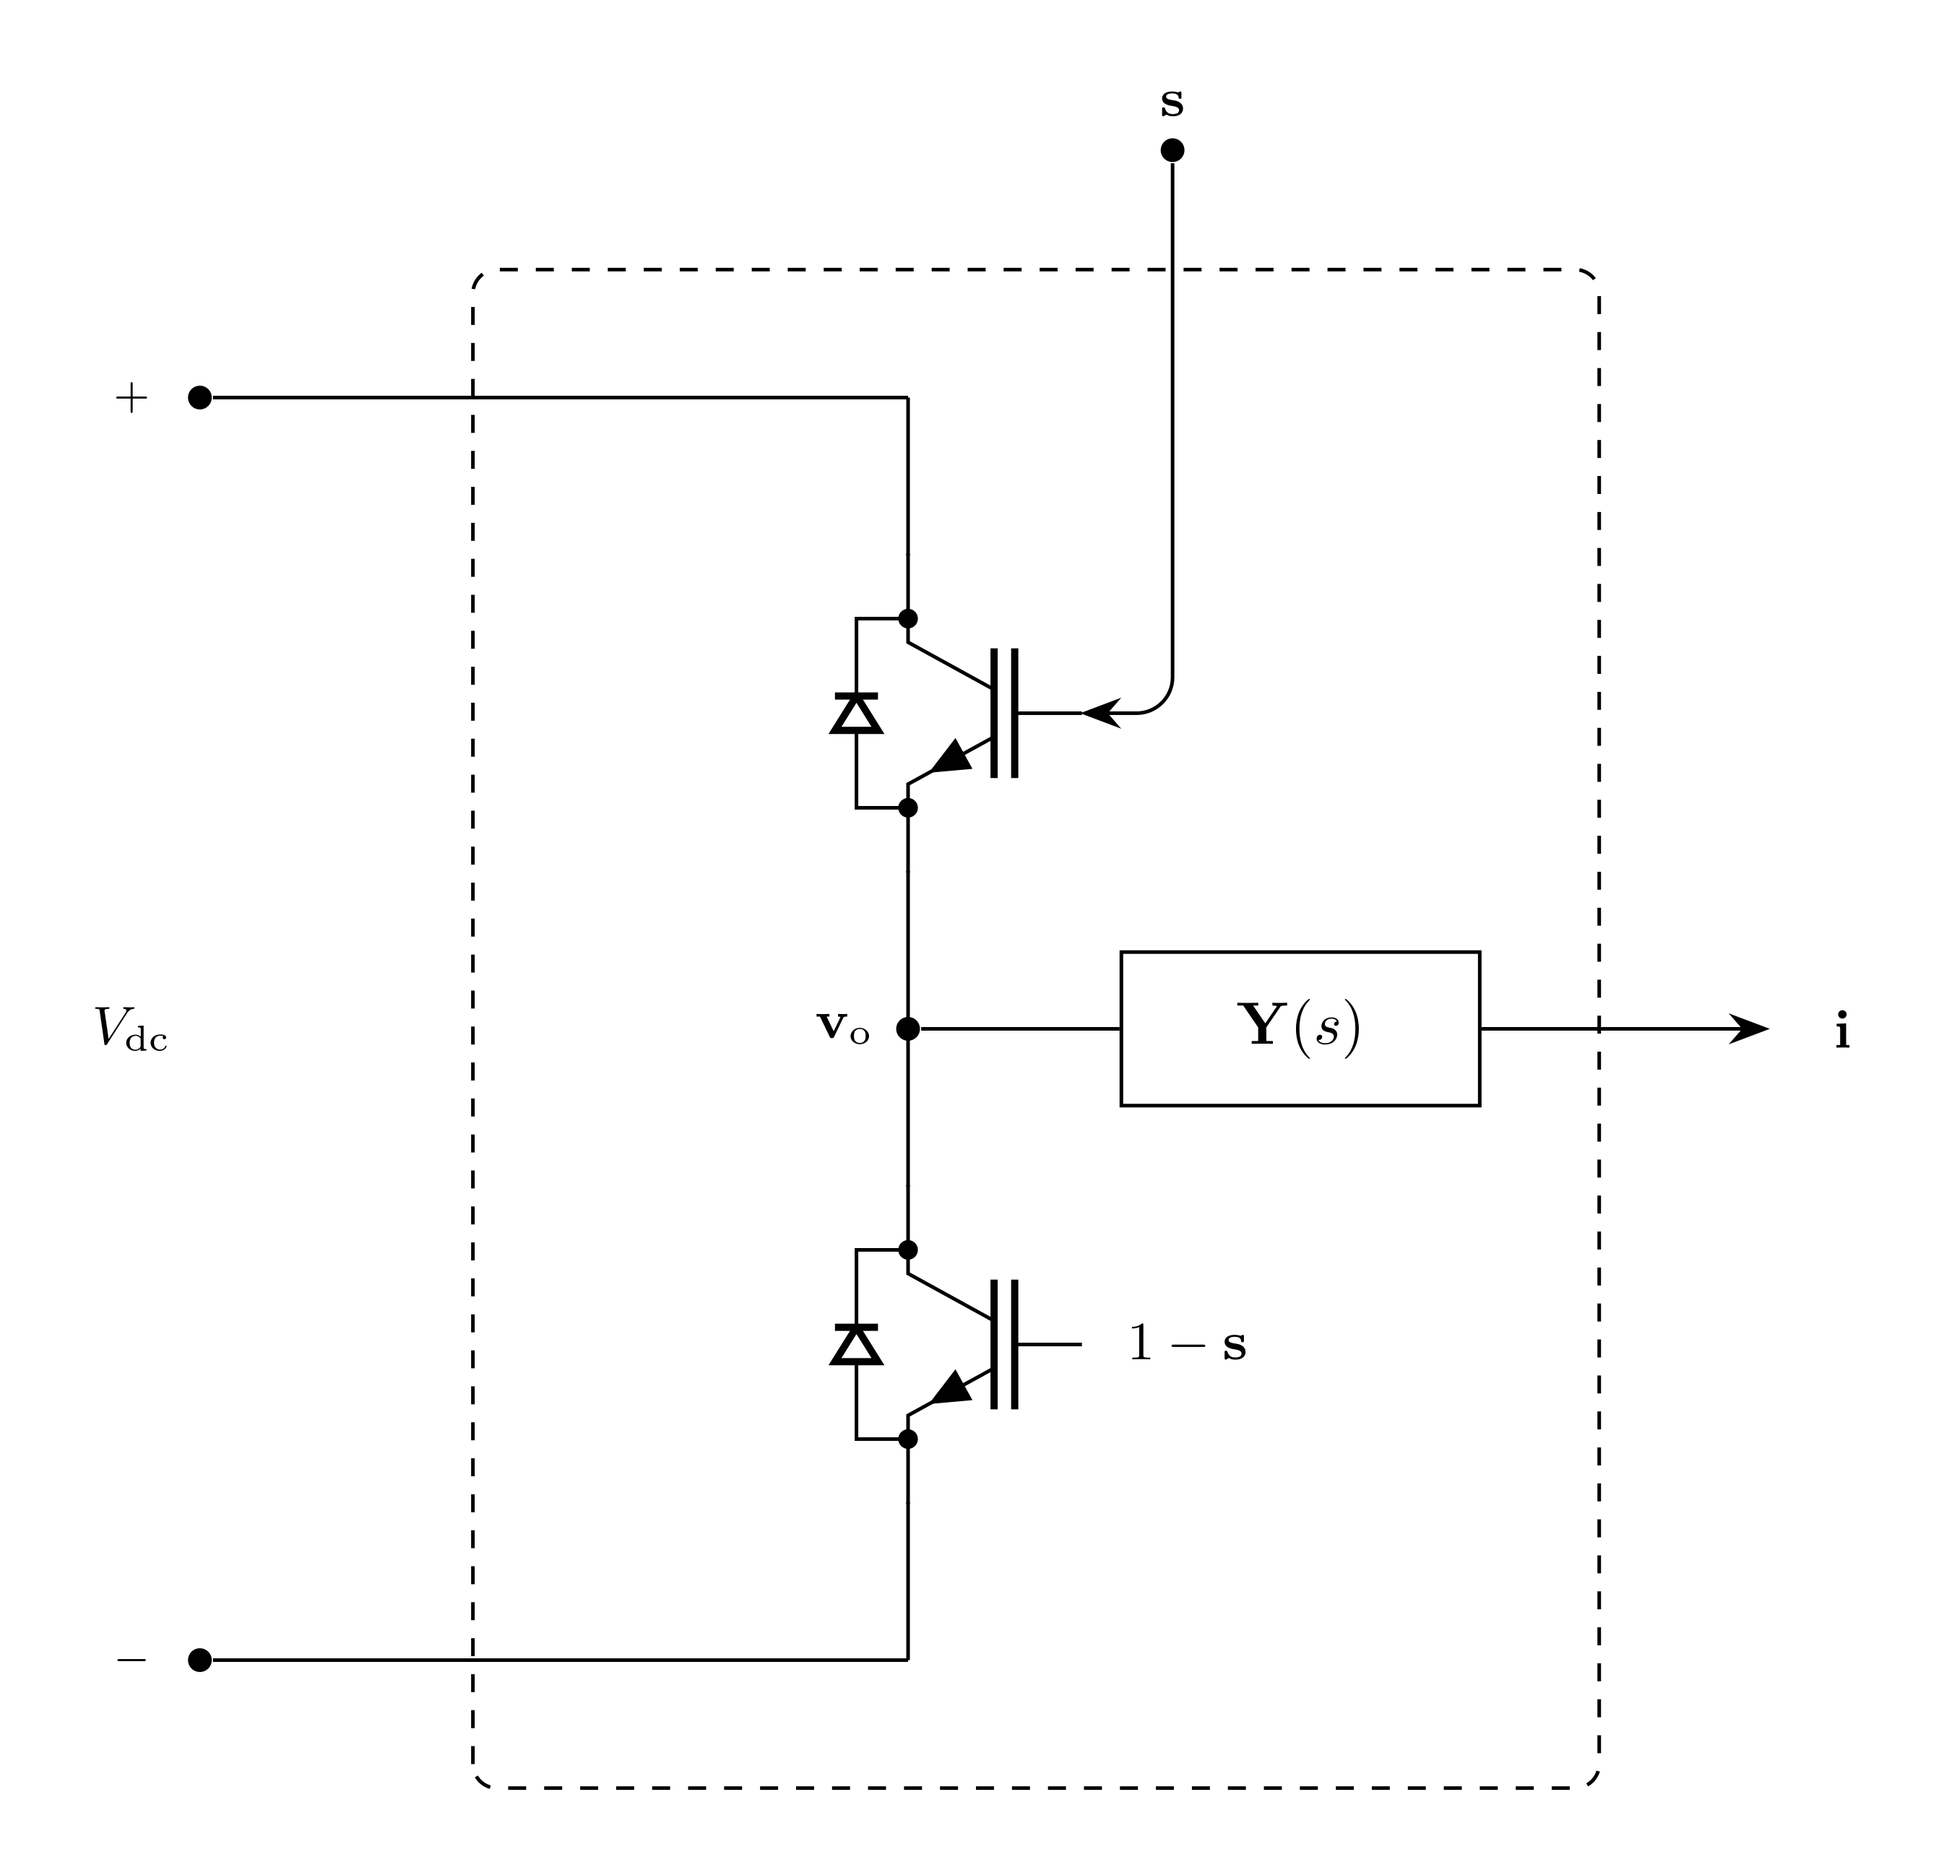
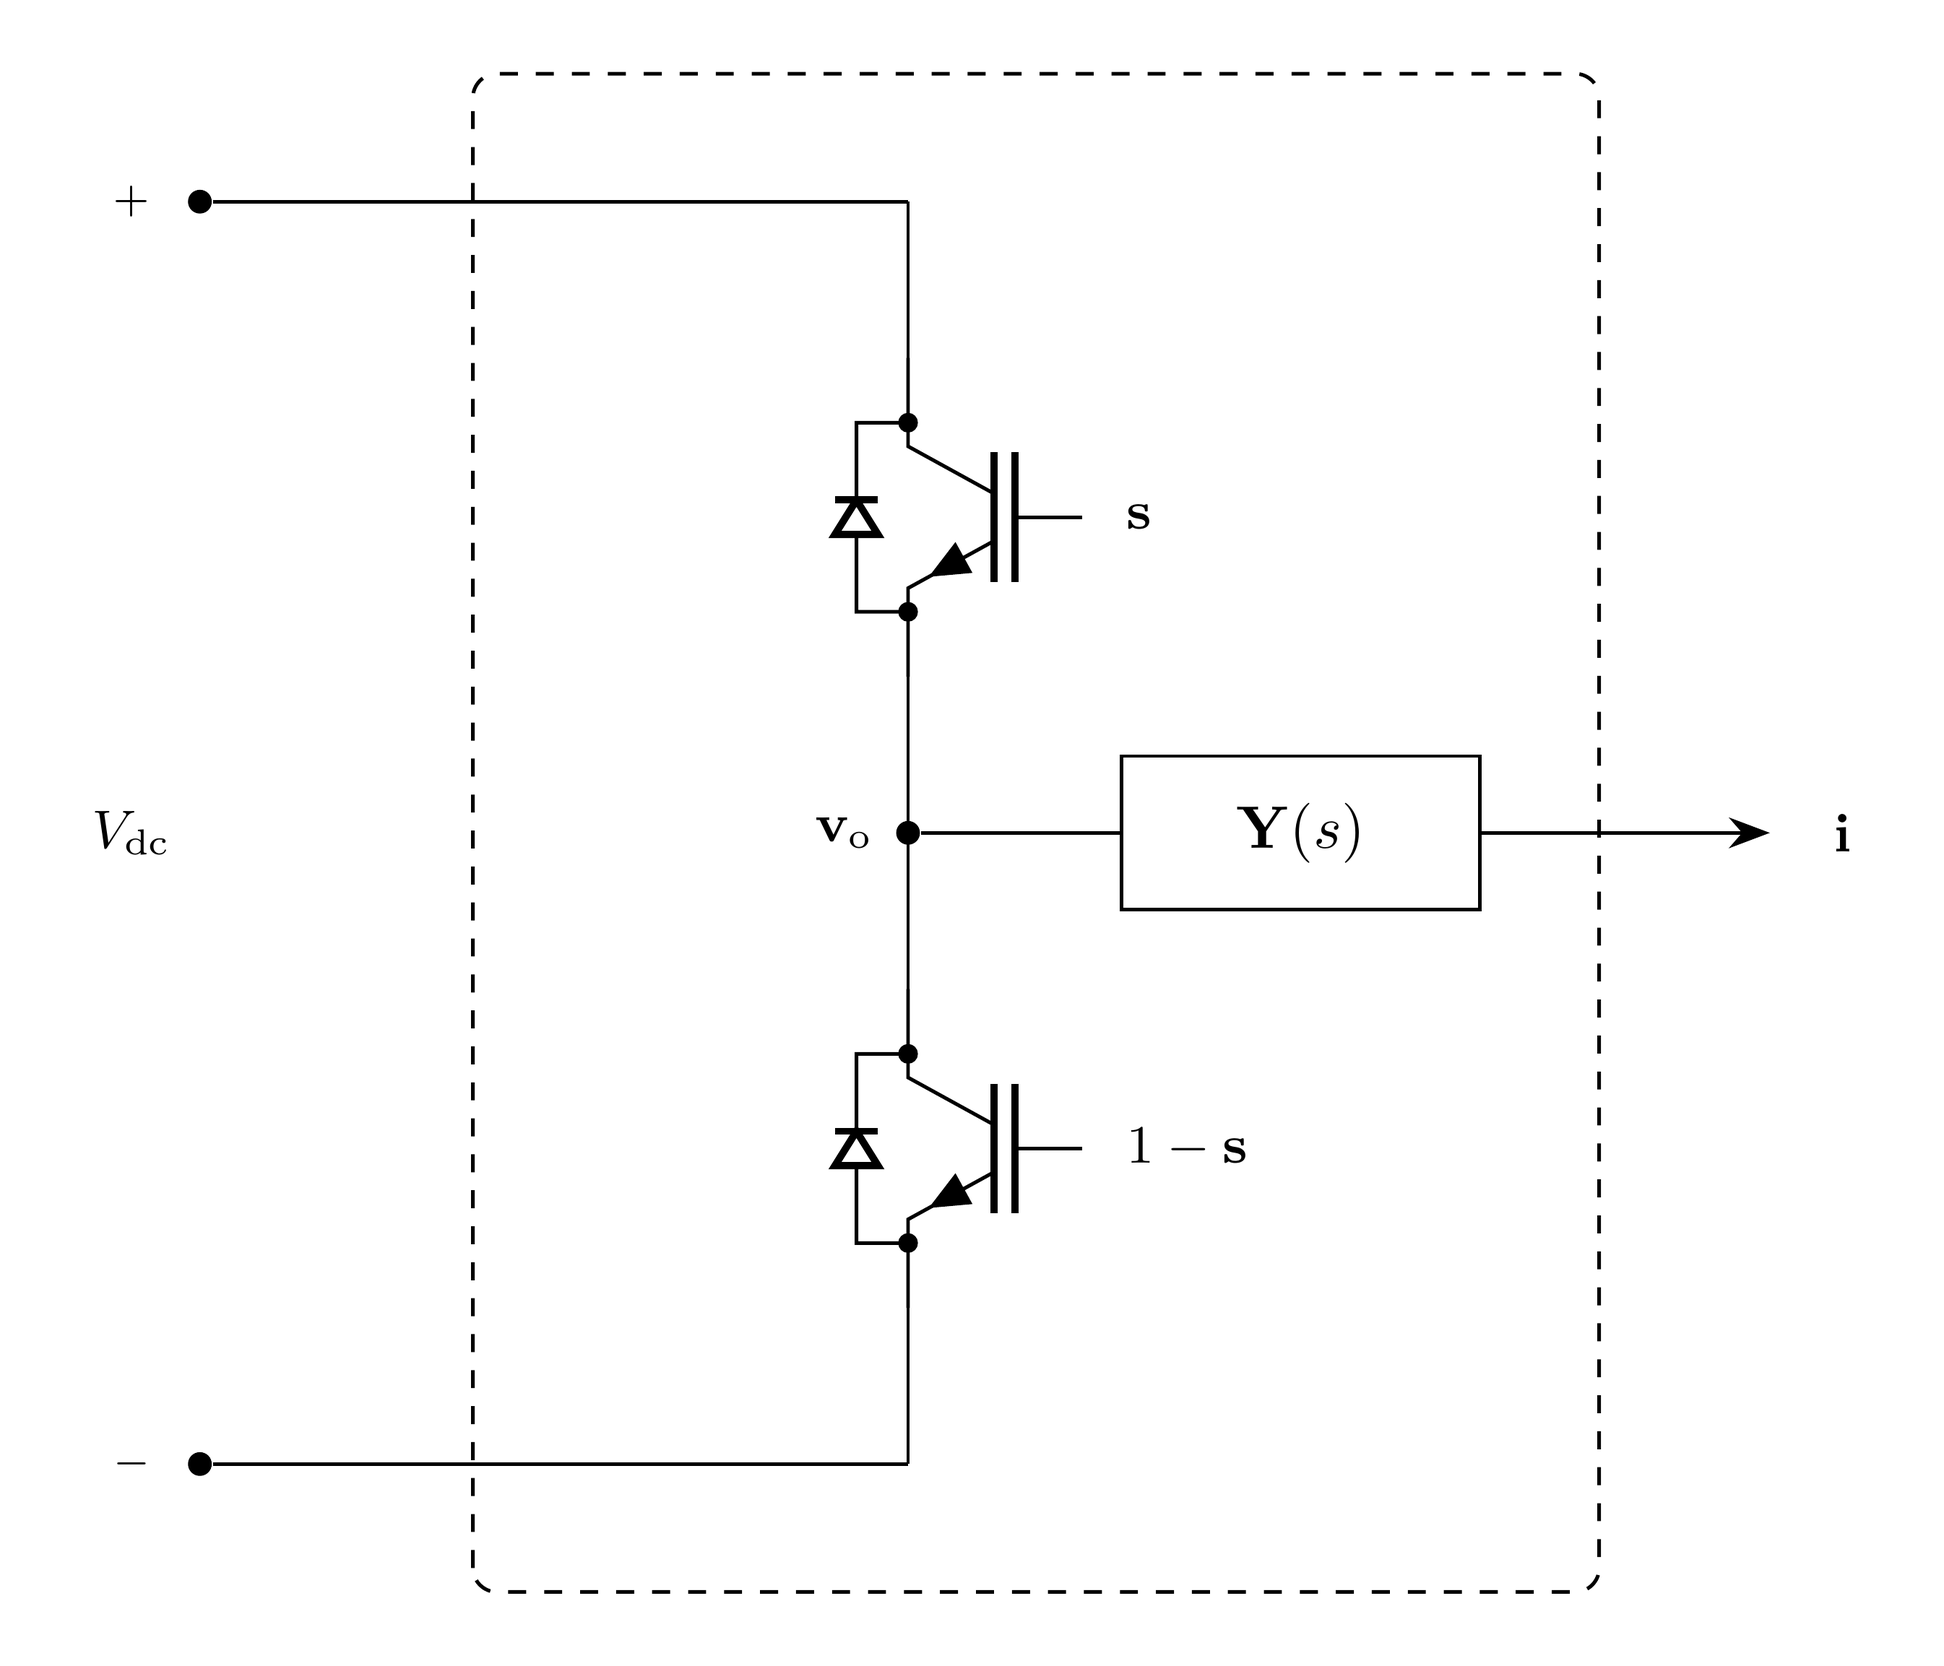
Converter adjustments

diff --git a/docs/Figures/EMT/Converter/diagram.tex b/docs/Figures/EMT/Converter/diagram.tex
@@ -26,11 +26,8 @@
 \draw[line] (S+.E) -- (0, 0);
 \draw[line] (S-.C) -- (0, 0);
 \draw[line] (S-.E) -- (0, -3.7);
+\node[sig, anchor=west] at ($(S+.G)+(0.15,0)$) {$\mathbf{s}$};
 \node[sig, anchor=west] at ($(S-.G)+(0.15,0)$) {$1-\mathbf{s}$};
-
-% ================= External switching input =================
-\node[signal, label={[sig]above:$\mathbf{s}$}] (sinput) at (1.55, 5.15) {};
-\draw[->, line] (sinput) |- (S+.G);
 
 % ================= Phase terminal =================
 \node[signal, label={[sig]left:$\mathbf{v}_{\mathrm{o}}$}] (phase) at (0, 0) {};

diff --git a/GridKit/Model/EMT/Component/Converter/README.md b/GridKit/Model/EMT/Component/Converter/README.md
@@ -19,18 +19,19 @@ None.
 
 ### Derived Parameters
 
-The oriented bridge incidence matrix and bridge Laplacian are
+The normalized phase incidence matrix and zero-sequence projector are
 
 ```math
 \begin{aligned}
 \mathbf{A} &=
-\begin{bmatrix}
+\dfrac{1}{\sqrt{3}}\begin{bmatrix}
 1 & -1 & 0 \\
 0 & 1 & -1 \\
 -1 & 0 & 1
 \end{bmatrix} \\
 \mathbf{P} &= \mathbf{A}^\mathsf{T}\mathbf{A}
 =
+\dfrac{1}{3}
 \begin{bmatrix}
 2 & -1 & -1 \\
 -1 & 2 & -1 \\
@@ -70,7 +71,7 @@ None.
 
 Symbol | Units | Description | Note
 ------ | ----- | ----------- | ----
-$\mathbf{e}$ | [V] | Bridge voltage vector | $\mathbf{e} \in \mathbb{R}^3$
+$\mathbf{v}_{\mathrm{o}}$ | [V] | Bridge voltage vector | $\mathbf{v}_{\mathrm{o}} \in \mathbb{R}^3$
 
 ### External Variables
 
@@ -98,14 +99,14 @@ None.
 #### Algebraic
 
 ```math
-0 = \mathbf{e}
-  - \dfrac{V_{\mathrm{dc}}}{3}\mathbf{P}\mathbf{s}
+0 = \mathbf{v}_{\mathrm{o}}
+  - V_\mathrm{dc}\mathbf{P}\mathbf{s}
 ```
 
 ### External Equations
 
 ```math
-\mathbf{i} \leftarrow \mathbf{y}[\mathbf{e} - \mathbf{v}]
+\mathbf{i} \leftarrow \mathbf{y}[\mathbf{v}_{\mathrm{o}} - \mathbf{v}]
 ```
 
 ## Initialization
@@ -116,5 +117,5 @@ None beyond the EMT initialization contract.
 
 Monitor | Units | Description | Note
 ------- | ----- | ----------- | ----
-`e` | [V] | Bridge voltage | $\mathbf{e} \in \mathbb{R}^3$
+`vo` | [V] | Bridge voltage | $\mathbf{v}_{\mathrm{o}} \in \mathbb{R}^3$
 `i` | [A] | Converter current injection | $\mathbf{i} \in \mathbb{R}^3$
